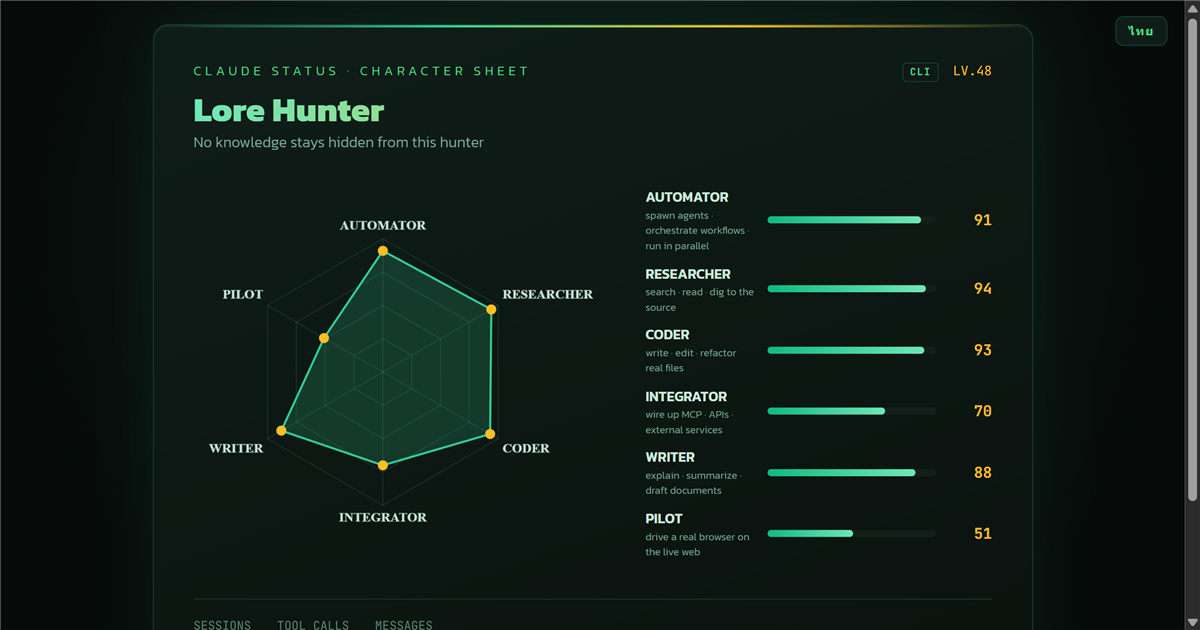
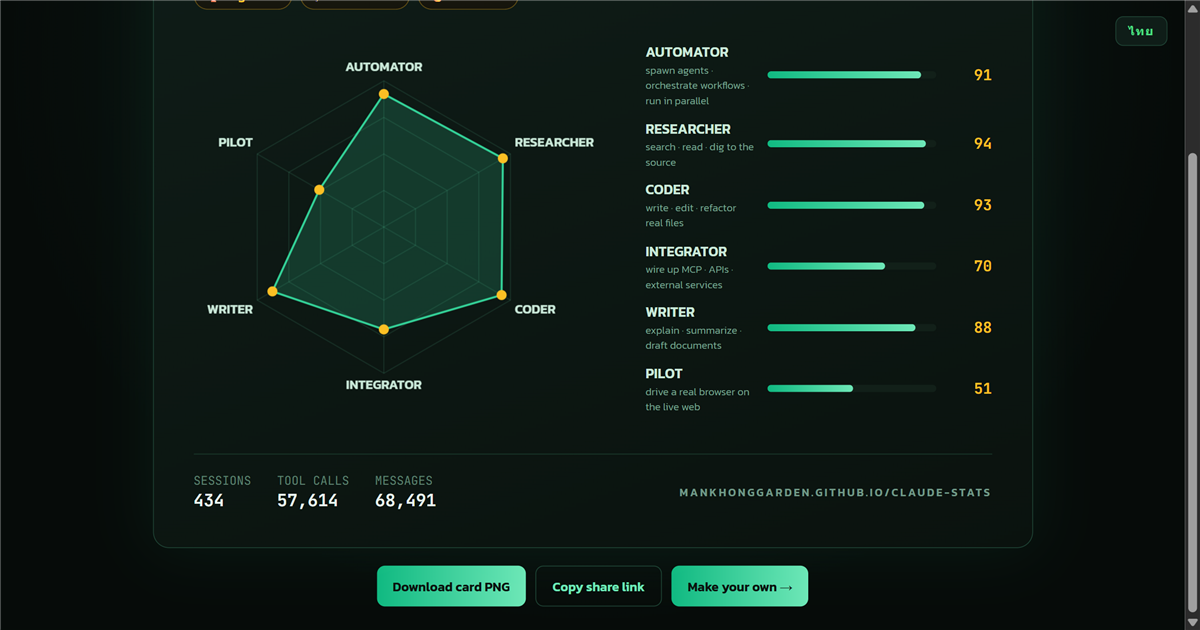
feat: behavioral badges — Night Owl / Early Bird / Weekend Warrior / Marathoner / Streak (iteration 5)
- computeBadges() in scoring.js derives badges from activity timestamps in the user's
  own local time (CLI: per-line timestamp; web: message created_at across all export files)
- CLI prints a badge row; web renders gold pill chips under the class
- badges + streak carried in the share payload; decodeShare whitelists badge keys,
  dedupes, caps at 8, and clamps streak (hostile-input safe, verified)
- demo card + OG image refreshed to show badges

diff --git a/lib/scoring.js b/lib/scoring.js
@@ -27,6 +27,16 @@
     pilot: ['Web Navigator', 'นักบินผู้พิชิตทุกหน้าเว็บ', 'Master pilot of every webpage']
   };
 
+  // Behavioral badges — computed from activity timestamps (the user's own local time).
+  var BADGES = {
+    'night-owl': { emoji: '🦉', en: 'Night Owl', th: 'สายดึก' },
+    'early-bird': { emoji: '🌅', en: 'Early Bird', th: 'นกตื่นเช้า' },
+    'weekend-warrior': { emoji: '🎮', en: 'Weekend Warrior', th: 'นักรบวันหยุด' },
+    'marathoner': { emoji: '🏃', en: 'Marathoner', th: 'นักวิ่งมาราธอน' },
+    'streak': { emoji: '🔥', en: 'Streak', th: 'ทำต่อเนื่อง' }
+  };
+  var BADGE_KEYS = Object.keys(BADGES);
+
   var REF = {
     cli: { automator: 25000, researcher: 15000, coder: 15000, integrator: 8000, writer: 4000, pilot: 4000 },
     web: { automator: 1200, researcher: 1500, coder: 800, integrator: 400, writer: 2500, pilot: 100 }
@@ -94,6 +104,50 @@
     return Math.max(1, Math.floor(Math.sqrt(e / 25)));
   }
 
+  // stamps: array of ISO timestamp strings (or anything Date can parse). Returns
+  // { badges: [key,...], streak: <longest consecutive-day run> }. Uses local time so
+  // the badges reflect the user's own schedule. Defensive: ignores unparseable stamps.
+  function computeBadges(stamps) {
+    var hourCount = 0, night = 0, early = 0, weekend = 0, total = 0;
+    var perDay = {};
+    for (var i = 0; i < (stamps ? stamps.length : 0); i++) {
+      var d = new Date(stamps[i]);
+      var ms = d.getTime();
+      if (!ms && ms !== 0) continue;
+      if (isNaN(ms)) continue;
+      total++;
+      var h = d.getHours();
+      if (h >= 0 && h < 5) night++;
+      if (h >= 5 && h < 9) early++;
+      var dow = d.getDay();
+      if (dow === 0 || dow === 6) weekend++;
+      var key = d.getFullYear() + '-' + (d.getMonth() + 1) + '-' + d.getDate();
+      perDay[key] = (perDay[key] || 0) + 1;
+      hourCount++;
+    }
+    var badges = [];
+    if (total >= 20) {
+      if (night / total >= 0.15) badges.push('night-owl');
+      else if (early / total >= 0.15) badges.push('early-bird');
+      if (weekend / total >= 0.35) badges.push('weekend-warrior');
+    }
+    // marathoner: a single day with a lot of activity
+    var busiest = 0;
+    for (var k in perDay) { if (perDay[k] > busiest) busiest = perDay[k]; }
+    if (busiest >= 40) badges.push('marathoner');
+    // streak: longest run of consecutive calendar days
+    var dayKeys = Object.keys(perDay).map(function (s) {
+      var p = s.split('-'); return new Date(+p[0], +p[1] - 1, +p[2]).getTime();
+    }).sort(function (a, b) { return a - b; });
+    var DAY = 86400000, best = dayKeys.length ? 1 : 0, run = best;
+    for (var j = 1; j < dayKeys.length; j++) {
+      if (Math.round((dayKeys[j] - dayKeys[j - 1]) / DAY) === 1) { run++; if (run > best) best = run; }
+      else run = 1;
+    }
+    if (best >= 3) badges.push('streak');
+    return { badges: badges, streak: best };
+  }
+
   function topAxis(scores) {
     var best = AXES[0];
     var bestScore = -Infinity;
@@ -152,6 +206,17 @@
         }
       }
       payload.totals = cleanTotals;
+      // badges: whitelist to known keys, dedupe, cap
+      var cleanBadges = [];
+      if (Array.isArray(payload.badges)) {
+        for (var bi = 0; bi < payload.badges.length && cleanBadges.length < 8; bi++) {
+          var bk = payload.badges[bi];
+          if (BADGE_KEYS.indexOf(bk) !== -1 && cleanBadges.indexOf(bk) === -1) cleanBadges.push(bk);
+        }
+      }
+      payload.badges = cleanBadges;
+      var st = Number(payload.streak);
+      payload.streak = (isFinite(st) && st > 0) ? Math.min(999, Math.round(st)) : 0;
       return payload;
     } catch (e) {
       return null;
@@ -162,10 +227,13 @@
     AXES: AXES,
     META: META,
     CLASSES: CLASSES,
+    BADGES: BADGES,
+    BADGE_KEYS: BADGE_KEYS,
     REF: REF,
     classifyTool: classifyTool,
     scoreAxes: scoreAxes,
     scoreAxesShape: scoreAxesShape,
+    computeBadges: computeBadges,
     level: level,
     topAxis: topAxis,
     encodeShare: encodeShare,

diff --git a/index.html b/index.html
@@ -106,7 +106,12 @@
   .level { font-family: 'JetBrains Mono', monospace; font-size: 13px; color: #fbbf24; }
   .class-name { font-size: 34px; font-weight: 800; line-height: 1.15; margin-bottom: 2px;
     background: linear-gradient(90deg, #6ee7b7, #fbbf24); -webkit-background-clip: text; background-clip: text; color: transparent; }
-  .class-sub { font-size: 15px; color: #7da894; font-weight: 300; margin-bottom: 20px; }
+  .class-sub { font-size: 15px; color: #7da894; font-weight: 300; margin-bottom: 14px; }
+  .badges { display: flex; flex-wrap: wrap; gap: 8px; margin-bottom: 18px; }
+  .badges:empty { display: none; }
+  .badge-chip { display: inline-flex; align-items: center; gap: 5px;
+    font-size: 12px; font-weight: 600; color: #fbbf24;
+    background: #1a130699; border: 1px solid #fbbf2455; border-radius: 999px; padding: 4px 11px; }
   .body { display: grid; grid-template-columns: 420px 1fr; gap: 32px; align-items: center; }
   .chart-wrap { position: relative; max-width: 100%; }
   .chart-wrap canvas { max-width: 100%; height: auto; }
@@ -197,7 +202,7 @@
     </div>
   </div>
   <div class="demo-row">
-    <a id="demoLink" href="#s=eyJ2IjoxLCJzcmMiOiJjbGkiLCJzdGF0cyI6eyJhdXRvbWF0b3IiOjkxLCJyZXNlYXJjaGVyIjo5NCwiY29kZXIiOjkzLCJpbnRlZ3JhdG9yIjo3MCwid3JpdGVyIjo4OCwicGlsb3QiOjUxfSwidG90YWxzIjp7InNlc3Npb25zIjo0MzQsInRvb2xDYWxscyI6NTc2MTQsInVzZXJNc2dzIjo2ODQ5MX19">ดูการ์ดตัวอย่างก่อน →</a>
+    <a id="demoLink" href="#s=eyJ2IjoxLCJzcmMiOiJjbGkiLCJzdGF0cyI6eyJhdXRvbWF0b3IiOjkxLCJyZXNlYXJjaGVyIjo5NCwiY29kZXIiOjkzLCJpbnRlZ3JhdG9yIjo3MCwid3JpdGVyIjo4OCwicGlsb3QiOjUxfSwidG90YWxzIjp7InNlc3Npb25zIjo0MzQsInRvb2xDYWxscyI6NTc2MTQsInVzZXJNc2dzIjo2ODQ5MX0sImJhZGdlcyI6WyJuaWdodC1vd2wiLCJtYXJhdGhvbmVyIiwic3RyZWFrIl0sInN0cmVhayI6MTR9">ดูการ์ดตัวอย่างก่อน →</a>
   </div>
 </div>
 
@@ -212,6 +217,7 @@
     </div>
     <div class="class-name" id="className"></div>
     <div class="class-sub" id="classSub"></div>
+    <div class="badges" id="badges"></div>
     <div class="body">
       <div class="chart-wrap"><canvas id="radar" width="420" height="400"></canvas></div>
       <ul class="stats-list" id="statsList"></ul>
@@ -420,6 +426,18 @@
     document.getElementById('lv').textContent = String(lv);
     document.getElementById('srcBadge').textContent = isWeb ? 'WEB · BETA' : 'CLI';
 
+    var badgesEl = document.getElementById('badges');
+    while (badgesEl.firstChild) badgesEl.removeChild(badgesEl.firstChild);
+    (payload.badges || []).forEach(function (k) {
+      var b = S.BADGES[k];
+      if (!b) return;
+      var chip = el('span', 'badge-chip');
+      var lbl = (lang === 'th' ? b.th : b.en) + (k === 'streak' && payload.streak ? ' ' + payload.streak + (lang === 'th' ? ' วัน' : 'd') : '');
+      chip.appendChild(el('span', null, b.emoji));
+      chip.appendChild(el('span', null, lbl));
+      badgesEl.appendChild(chip);
+    });
+
     var list = document.getElementById('statsList');
     while (list.firstChild) list.removeChild(list.firstChild);
     S.AXES.forEach(function (k) {
@@ -536,7 +554,7 @@
     convs.forEach(function (cv) {
       var ms = (cv && (cv.chat_messages || cv.messages)) || [];
       if (!Array.isArray(ms)) return;
-      ms.forEach(function (m) { msgs.push({ role: roleOf(m), text: msgText(m) }); });
+      ms.forEach(function (m) { msgs.push({ role: roleOf(m), text: msgText(m), ts: (m && (m.created_at || m.timestamp)) || null }); });
     });
     return msgs;
   }
@@ -581,6 +599,11 @@
     var r = scoreMessages(msgs);
     if (!r) return null;
     r.totals.sessions = convCount || 0;
+    var stamps = [];
+    for (var i = 0; i < msgs.length; i++) { if (msgs[i].ts) stamps.push(msgs[i].ts); }
+    var b = S.computeBadges(stamps);
+    r.badges = b.badges;
+    r.streak = b.streak;
     return r;
   }
 
@@ -592,7 +615,7 @@
   function finishParse(parsed) {
     if (!parsed) { toast(t('badFormat'), true); return; }
     var stats = S.scoreAxesShape(parsed.raw);
-    var encoded = S.encodeShare({ v: 1, src: 'web', stats: stats, totals: parsed.totals });
+    var encoded = S.encodeShare({ v: 1, src: 'web', stats: stats, totals: parsed.totals, badges: parsed.badges || [], streak: parsed.streak || 0 });
     window.location.hash = '#s=' + encoded;
   }
 

diff --git a/bin/cli.js b/bin/cli.js
@@ -111,6 +111,7 @@ function processFile(filePath, acc) {
         return;
       }
       if (!obj || typeof obj !== 'object') return;
+      if (typeof obj.timestamp === 'string' && acc.stamps.length < 200000) acc.stamps.push(obj.timestamp);
       if (obj.type === 'user') {
         acc.userMessages++;
         return;
@@ -180,6 +181,7 @@ async function main() {
     userMessages: 0,
     assistantMessages: 0,
     textChars: 0,
+    stamps: [],
     units: { automator: 0, researcher: 0, coder: 0, integrator: 0, writer: 0, pilot: 0 }
   };
 
@@ -193,13 +195,18 @@ async function main() {
   const lv = scoring.level(acc.toolCalls);
   const top = scoring.topAxis(stats);
   const cls = scoring.CLASSES[top];
+  const badgeInfo = scoring.computeBadges(acc.stamps);
   const totals = {
     sessions: files.length,
     toolCalls: acc.toolCalls,
     userMessages: acc.userMessages,
     assistantMessages: acc.assistantMessages
   };
-  const payload = { v: 1, src: 'cli', stats: stats, totals: { sessions: totals.sessions, toolCalls: totals.toolCalls, userMsgs: totals.userMessages } };
+  const payload = {
+    v: 1, src: 'cli', stats: stats,
+    totals: { sessions: totals.sessions, toolCalls: totals.toolCalls, userMsgs: totals.userMessages },
+    badges: badgeInfo.badges, streak: badgeInfo.streak
+  };
   const shareUrl = SITE_URL + '#s=' + scoring.encodeShare(payload);
 
   if (args.json) {
@@ -211,6 +218,8 @@ async function main() {
       level: lv,
       topAxis: top,
       class: cls[0],
+      badges: badgeInfo.badges,
+      streak: badgeInfo.streak,
       totals: totals
     };
     if (args.share) out.shareUrl = shareUrl;
@@ -232,6 +241,13 @@ async function main() {
     lines.push('  ' + name + bar(stats[axis]) + ' ' + score);
   }
   lines.push('  ' + '-'.repeat(46));
+  if (badgeInfo.badges.length) {
+    lines.push('  ' + badgeInfo.badges.map(function (k) {
+      var b = scoring.BADGES[k];
+      return (b ? b.emoji + ' ' + b.en : k) + (k === 'streak' ? ' ' + badgeInfo.streak + 'd' : '');
+    }).join('   '));
+    lines.push('  ' + '-'.repeat(46));
+  }
   lines.push('  sessions ' + totals.sessions +
     ' | tool calls ' + totals.toolCalls +
     ' | your msgs ' + totals.userMessages);